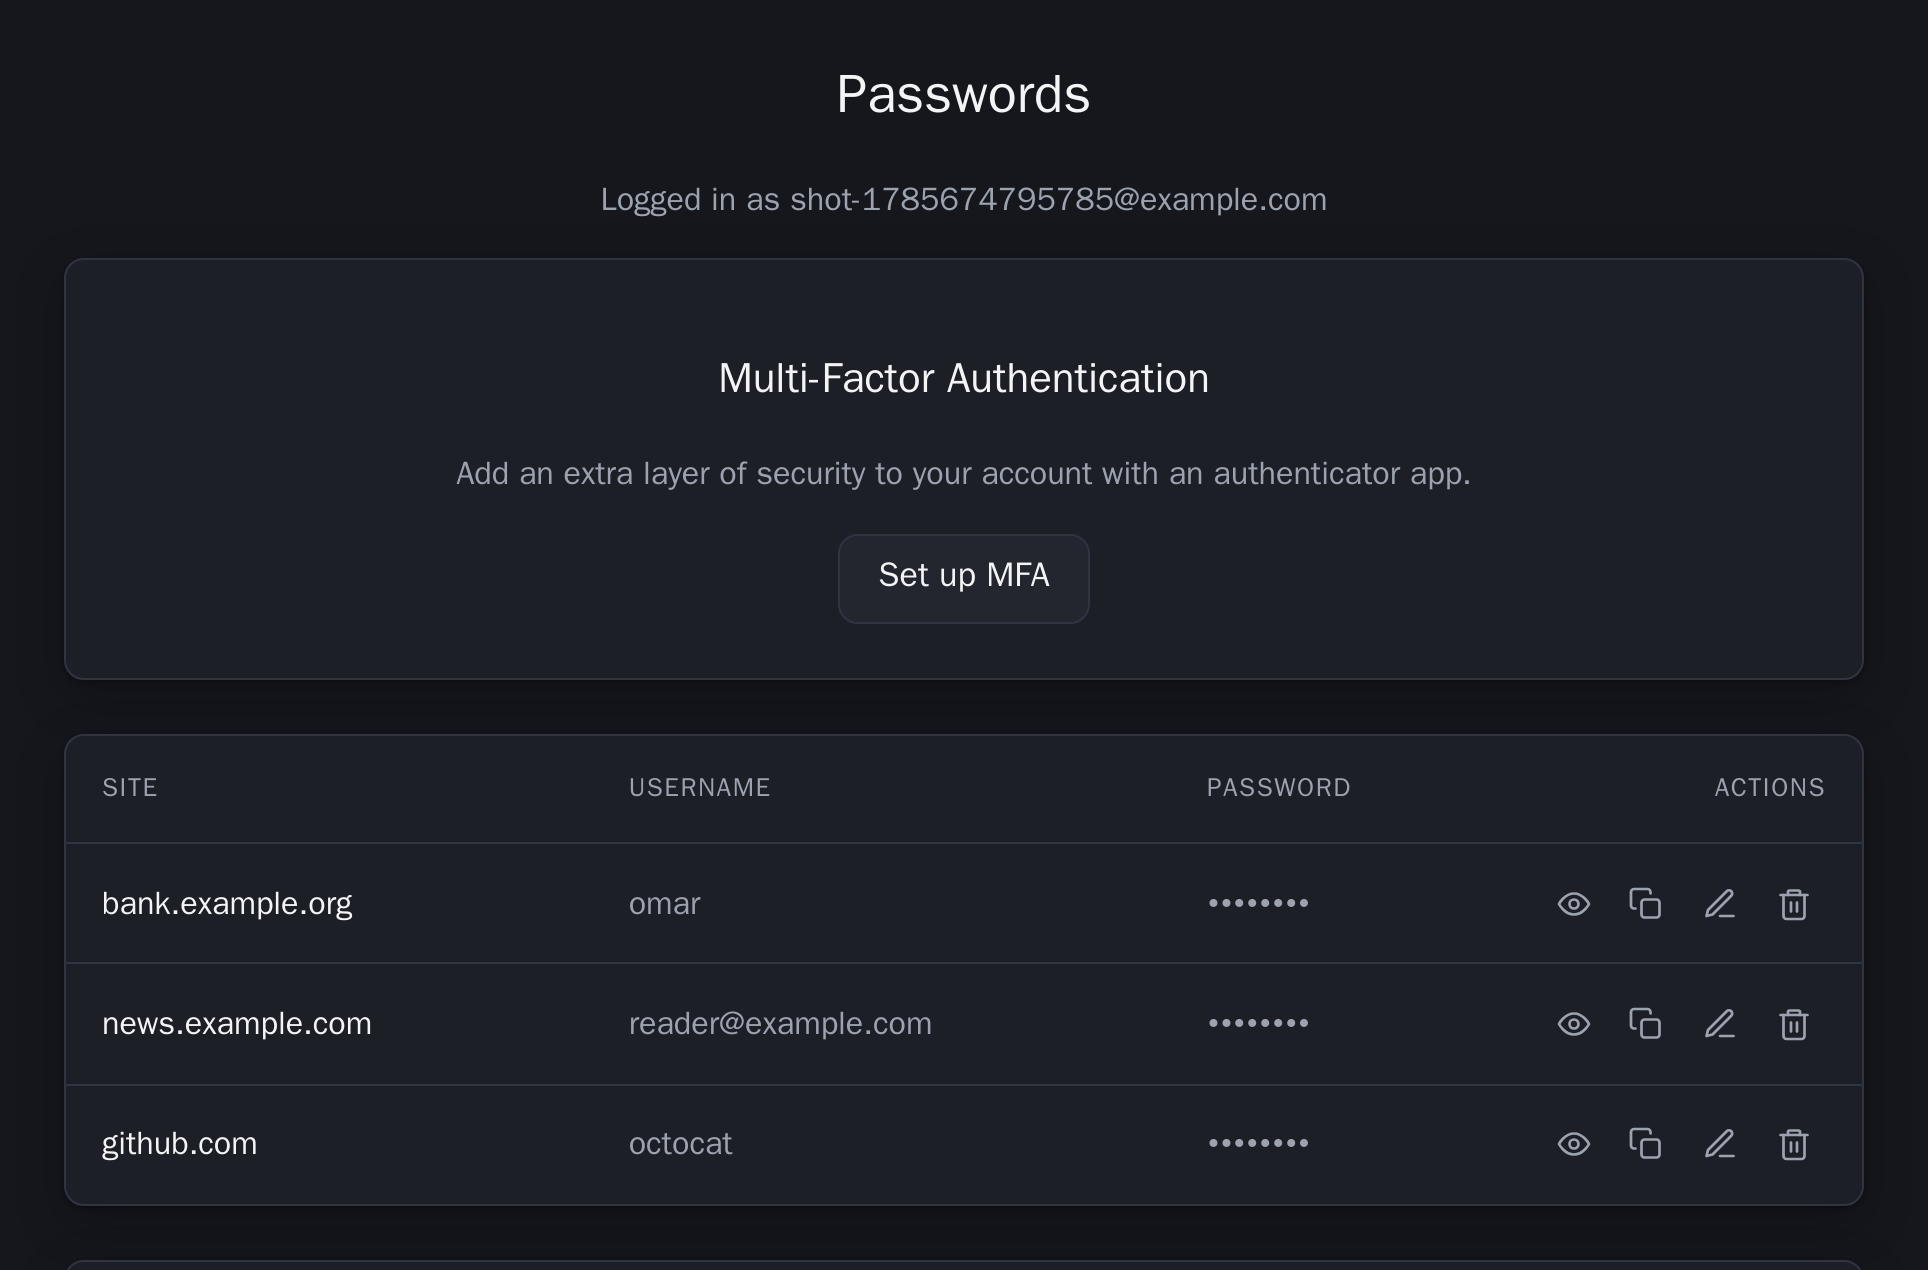
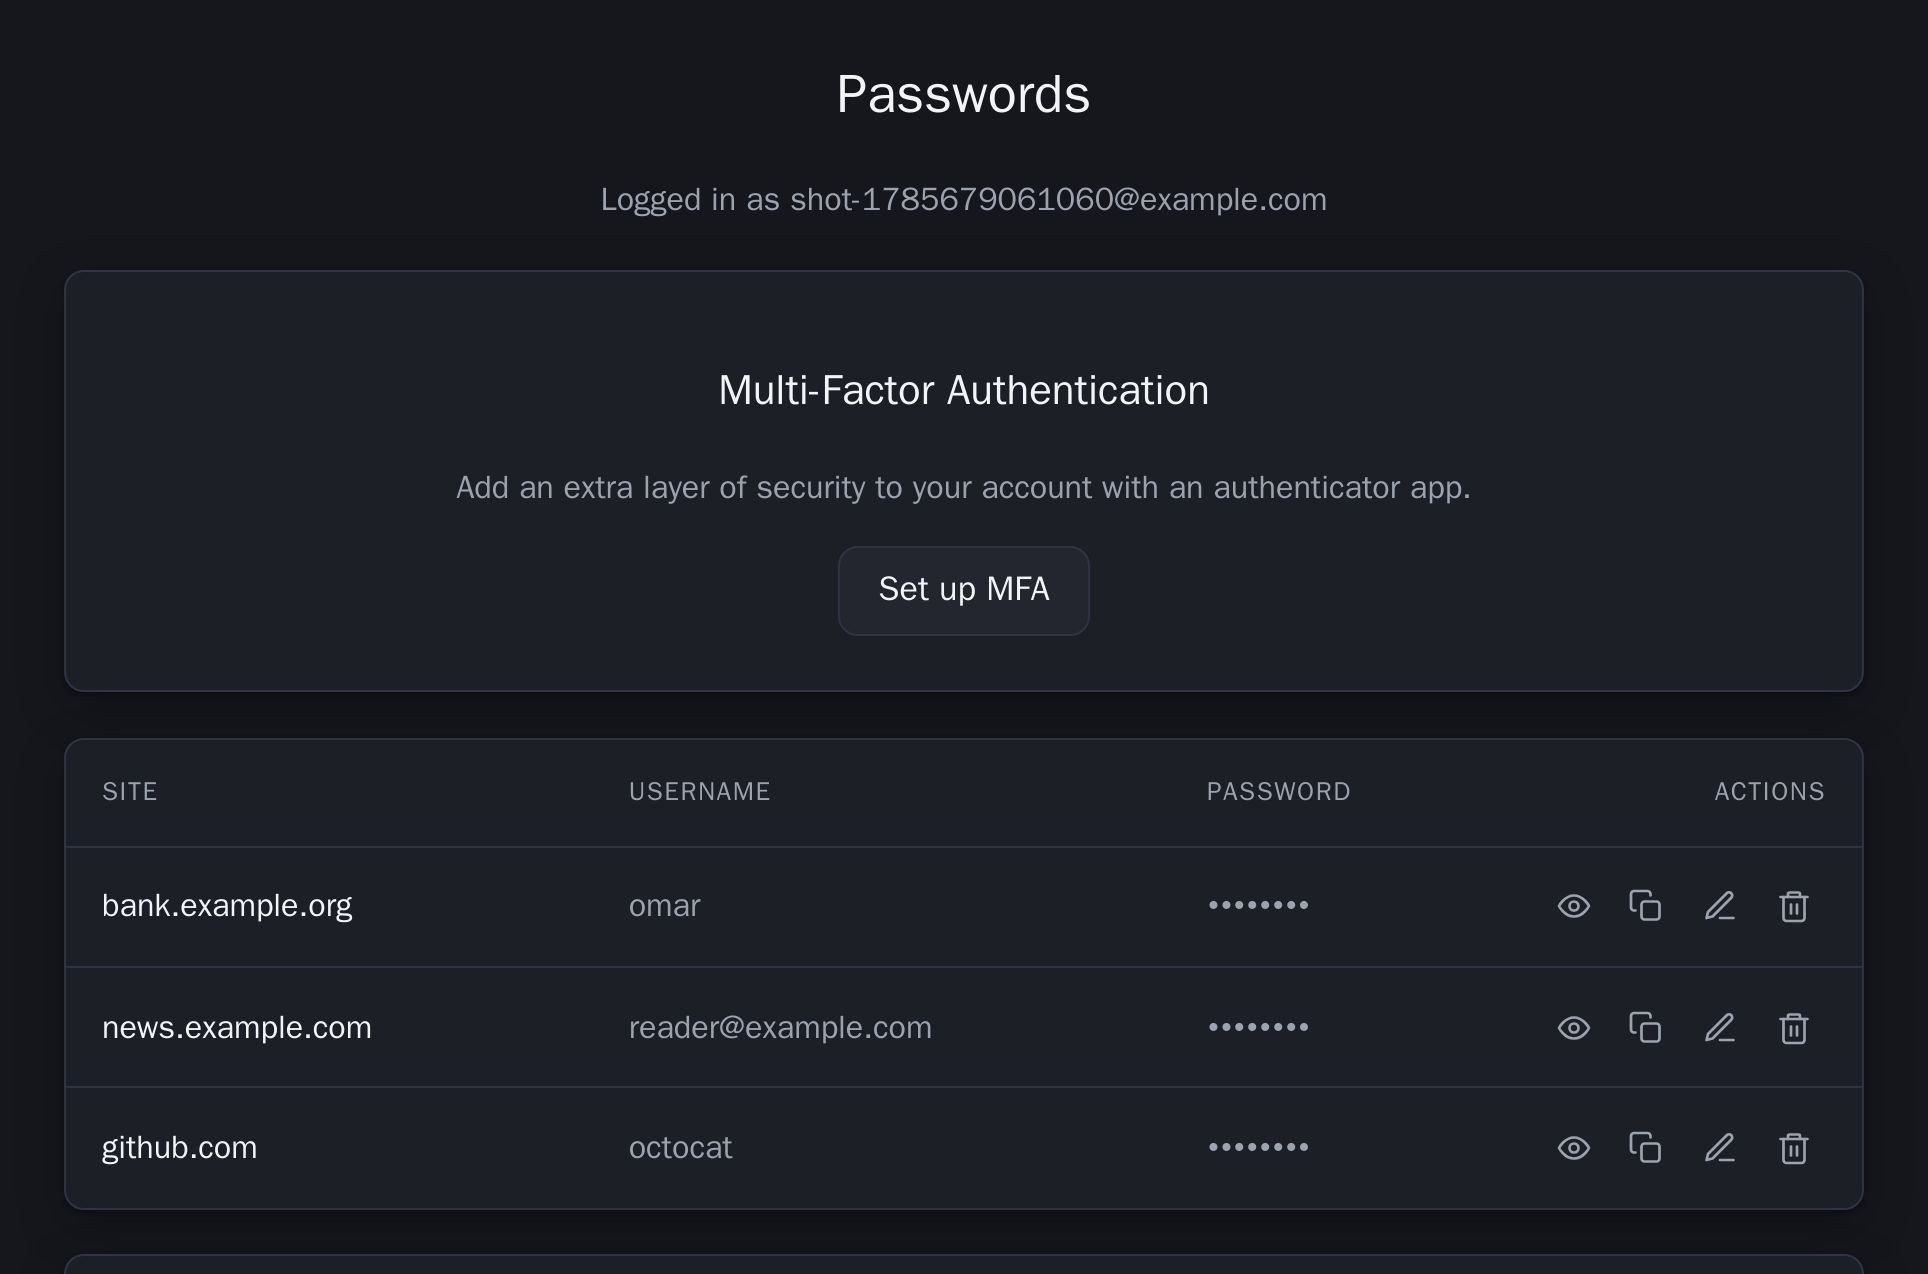
Fix the table's mobile regression and the dark-mode contrast
Two independent reviews of the previous commit found defects in it, both
reproduced by measurement before fixing and after.

The cards-to-table conversion broke the vault on a phone. At 375px with an
entirely ordinary entry the table was 459px wide inside a 337px scroller, so
three of the four row actions sat past the viewport edge: copy, edit and delete
were unreachable without dragging the table sideways, and the scroll container
was not keyboard reachable either, so a keyboard user could not reach them at
all. The cards this replaced always fit. Below 640px each row is now its own
stacked block with the column name shown per field, so nothing scrolls
horizontally and every control is visible; measured after the change, all four
buttons sit at 69-180px inside a 375px viewport and the container no longer
overflows. The table is unchanged above that width, and the scroller keeps a
tabindex and an accessible name for the widths where it can still scroll.

Dark mode used white text on a mid purple, which measures 3.61:1 — below the
4.5:1 WCAG AA requires for button text, and 2.91:1 on hover, below even the
large-text floor. That affected every primary action in dark mode. The pair is
inverted to near-black text on a lighter lavender, measured 8.09:1.

A rejected clipboard write was swallowed: the promise rejection escaped
unhandled, the icon never changed, and no error appeared, so a user would paste
[…]

diff --git a/frontend/src/App.css b/frontend/src/App.css
@@ -26,8 +26,13 @@
   margin: 0 auto;
 }
 
-.card + .card {
-  margin-top: 1.25rem;
+/* Vertical rhythm on the blocks themselves. This used to be `.card + .card`,
+   which never matched: the table or the empty state always sits between the two
+   cards on the vault page, so the panels ended up flush against each other. */
+.card,
+.table-wrap,
+.empty-state {
+  margin-block: 1.25rem;
 }
 
 /* Label above input. Left-aligned inside an otherwise centred page, because a
@@ -90,7 +95,6 @@ form {
 /* Vault table. One row per entry, so entries line up column by column and stay
    scannable as the list grows — which a grid of cards does not. */
 .table-wrap {
-  margin: 1.5rem 0;
   overflow-x: auto;
   background: var(--surface);
   border: 1px solid var(--border);
@@ -215,4 +219,84 @@ form {
   border: 1px solid var(--border);
   border-radius: var(--radius);
   overflow-wrap: anywhere;
+}
+
+/* Below this width four columns cannot fit, and a horizontally scrolled table
+   pushed the action buttons off-screen entirely — on a phone the reveal, copy,
+   edit and delete controls were unreachable without dragging the table
+   sideways. Each row becomes its own stacked block instead, so every control is
+   visible and nothing scrolls horizontally. The markup stays a real table for
+   wider screens and for assistive technology. */
+@media (max-width: 640px) {
+  .table-wrap {
+    overflow-x: visible;
+  }
+
+  /* The header is redundant once each cell carries its own label, but it stays
+     in the accessibility tree rather than being removed. */
+  .vault-table thead {
+    position: absolute;
+    width: 1px;
+    height: 1px;
+    overflow: hidden;
+    clip-path: inset(50%);
+    white-space: nowrap;
+  }
+
+  .vault-table,
+  .vault-table tbody,
+  .vault-table tr,
+  .vault-table td {
+    display: block;
+    width: auto;
+  }
+
+  .vault-table tbody tr {
+    padding: 0.9rem 1rem;
+  }
+
+  .vault-table tbody tr + tr {
+    border-top: 1px solid var(--border);
+  }
+
+  .vault-table tbody tr + tr td {
+    border-top: none;
+  }
+
+  .vault-table td {
+    padding: 0.15rem 0;
+  }
+
+  /* Replaces the column header for each stacked cell. Generated content, so it
+     never appears in the DOM the tests query. */
+  .vault-table td::before {
+    display: block;
+    font-size: 0.7em;
+    color: var(--text);
+    text-transform: uppercase;
+    letter-spacing: 0.06em;
+    content: attr(data-label);
+  }
+
+  .cell-actions {
+    width: auto;
+    text-align: left;
+  }
+
+  .cell-actions::before {
+    display: none;
+  }
+
+  .icon-row {
+    justify-content: flex-start;
+    margin-top: 0.4rem;
+  }
+
+  .password-item td {
+    padding: 0.5rem 0;
+  }
+
+  .password-item td::before {
+    display: none;
+  }
 }

diff --git a/frontend/src/components/PasswordItem.tsx b/frontend/src/components/PasswordItem.tsx
@@ -31,6 +31,7 @@ export function PasswordItem({
 }) {
   const [revealed, setRevealed] = useState(false);
   const [copied, setCopied] = useState(false);
+  const [copyError, setCopyError] = useState('');
   const [editing, setEditing] = useState(false);
   const [editSiteName, setEditSiteName] = useState(item.siteName);
   const [editUsername, setEditUsername] = useState(item.username);
@@ -38,7 +39,19 @@ export function PasswordItem({
   const [editError, setEditError] = useState('');
 
   const handleCopy = async () => {
-    await navigator.clipboard.writeText(item.password);
+    // A rejected clipboard write used to escape as an unhandled rejection and
+    // leave the icon unchanged, so the user believed the password was copied
+    // and pasted whatever was on the clipboard before. Denied permission and
+    // "document is not focused" are both routine, so the failure has to be
+    // shown rather than swallowed.
+    try {
+      await navigator.clipboard.writeText(item.password);
+    } catch {
+      setCopyError('Could not copy. Reveal the password and copy it manually.');
+      setTimeout(() => setCopyError(''), 4000);
+      return;
+    }
+    setCopyError('');
     setCopied(true);
     setTimeout(() => setCopied(false), 1500);
   };
@@ -145,9 +158,13 @@ export function PasswordItem({
 
   return (
     <tr>
-      <td className="cell-site">{item.siteName}</td>
-      <td>{item.username}</td>
-      <td className="cell-secret">{revealed ? item.password : '••••••••'}</td>
+      <td className="cell-site" data-label="Site">
+        {item.siteName}
+      </td>
+      <td data-label="Username">{item.username}</td>
+      <td className="cell-secret" data-label="Password">
+        {revealed ? item.password : '••••••••'}
+      </td>
       <td className="cell-actions">
         <div className="icon-row">
           <IconButton
@@ -166,6 +183,7 @@ export function PasswordItem({
             <TrashIcon />
           </IconButton>
         </div>
+        {copyError && <p className="error">{copyError}</p>}
       </td>
     </tr>
   );

diff --git a/frontend/src/App.test.tsx b/frontend/src/App.test.tsx
@@ -108,32 +108,36 @@ describe('App routing', () => {
     visit('/');
   });
 
-  it('shows the home page at the root URL rather than Page Not Found', () => {
+  it('shows the home page at the root URL rather than Page Not Found', async () => {
     // The reported bug: opening the site at / rendered the 404 page, so the
     // app looked broken before a user could reach either entry point.
     visit('/');
 
     render(<App />);
 
-    expect(screen.getByRole('heading', { name: 'Secure Password Manager' })).toBeInTheDocument();
+    expect(
+      await screen.findByRole('heading', { name: 'Secure Password Manager' }),
+    ).toBeInTheDocument();
     expect(screen.queryByText('Page Not Found')).not.toBeInTheDocument();
   });
 
-  it('still shows Page Not Found for a route that does not exist', () => {
+  it('still shows Page Not Found for a route that does not exist', async () => {
     visit('/no-such-page');
 
     render(<App />);
 
-    expect(screen.getByText('Page Not Found')).toBeInTheDocument();
+    expect(await screen.findByText('Page Not Found')).toBeInTheDocument();
   });
 
-  it('offers a way back home from Page Not Found', () => {
+  it('offers a way back home from Page Not Found', async () => {
     visit('/no-such-page');
 
     render(<App />);
-    fireEvent.click(screen.getByRole('button', { name: 'Go to the home page' }));
+    fireEvent.click(await screen.findByRole('button', { name: 'Go to the home page' }));
 
     expect(window.location.pathname).toBe('/');
-    expect(screen.getByRole('heading', { name: 'Secure Password Manager' })).toBeInTheDocument();
+    expect(
+      await screen.findByRole('heading', { name: 'Secure Password Manager' }),
+    ).toBeInTheDocument();
   });
 });

diff --git a/frontend/src/components/PasswordItem.test.tsx b/frontend/src/components/PasswordItem.test.tsx
@@ -74,6 +74,20 @@ describe('PasswordItem', () => {
     expect(await screen.findByRole('button', { name: 'Copied!' })).toBeInTheDocument();
   });
 
+  it('tells the user when the clipboard write is refused instead of looking successful', async () => {
+    // A denied clipboard is routine — an unfocused document is enough. Silently
+    // doing nothing would leave the user pasting whatever they copied earlier.
+    Object.assign(navigator, {
+      clipboard: { writeText: vi.fn().mockRejectedValue(new Error('Write permission denied')) },
+    });
+    renderPasswordItem();
+
+    fireEvent.click(screen.getByRole('button', { name: 'Copy password' }));
+
+    expect(await screen.findByText(/Could not copy/)).toBeInTheDocument();
+    expect(screen.queryByRole('button', { name: 'Copied!' })).not.toBeInTheDocument();
+  });
+
   it('asks for confirmation and calls onDelete with the item id when confirmed', async () => {
     const confirmSpy = vi.spyOn(window, 'confirm').mockReturnValue(true);
     const props = renderPasswordItem();

diff --git a/frontend/src/index.css b/frontend/src/index.css
@@ -32,8 +32,13 @@
     --surface: #1d1f27;
     --surface-alt: #23262f;
     --border: #303442;
-    --accent: #8b6fff;
-    --accent-hover: #9c85ff;
+    /* Light lavender with near-black text, rather than the light-mode purple
+       with white text: white on a mid purple only reaches 3.61:1 here, below
+       the 4.5:1 WCAG AA needs for button text at this size. Inverting the pair
+       keeps the accent readable without washing the button out. */
+    --accent: #b5a1ff;
+    --accent-hover: #c9baff;
+    --accent-contrast: #16171d;
     --danger: #ff7a8a;
     --shadow:
       0 1px 2px rgb(0 0 0 / 30%),

diff --git a/frontend/src/pages/PasswordsPage.tsx b/frontend/src/pages/PasswordsPage.tsx
@@ -273,7 +273,7 @@ export function PasswordsPage({
         // Wrapper scrolls instead of the page: a vault entry can hold a long
         // site name or password, and a table that overflows the viewport would
         // otherwise push the whole layout sideways.
-        <div className="table-wrap">
+        <div className="table-wrap" tabIndex={0} role="region" aria-label="Saved passwords">
           <table className="vault-table">
             <thead>
               <tr>
